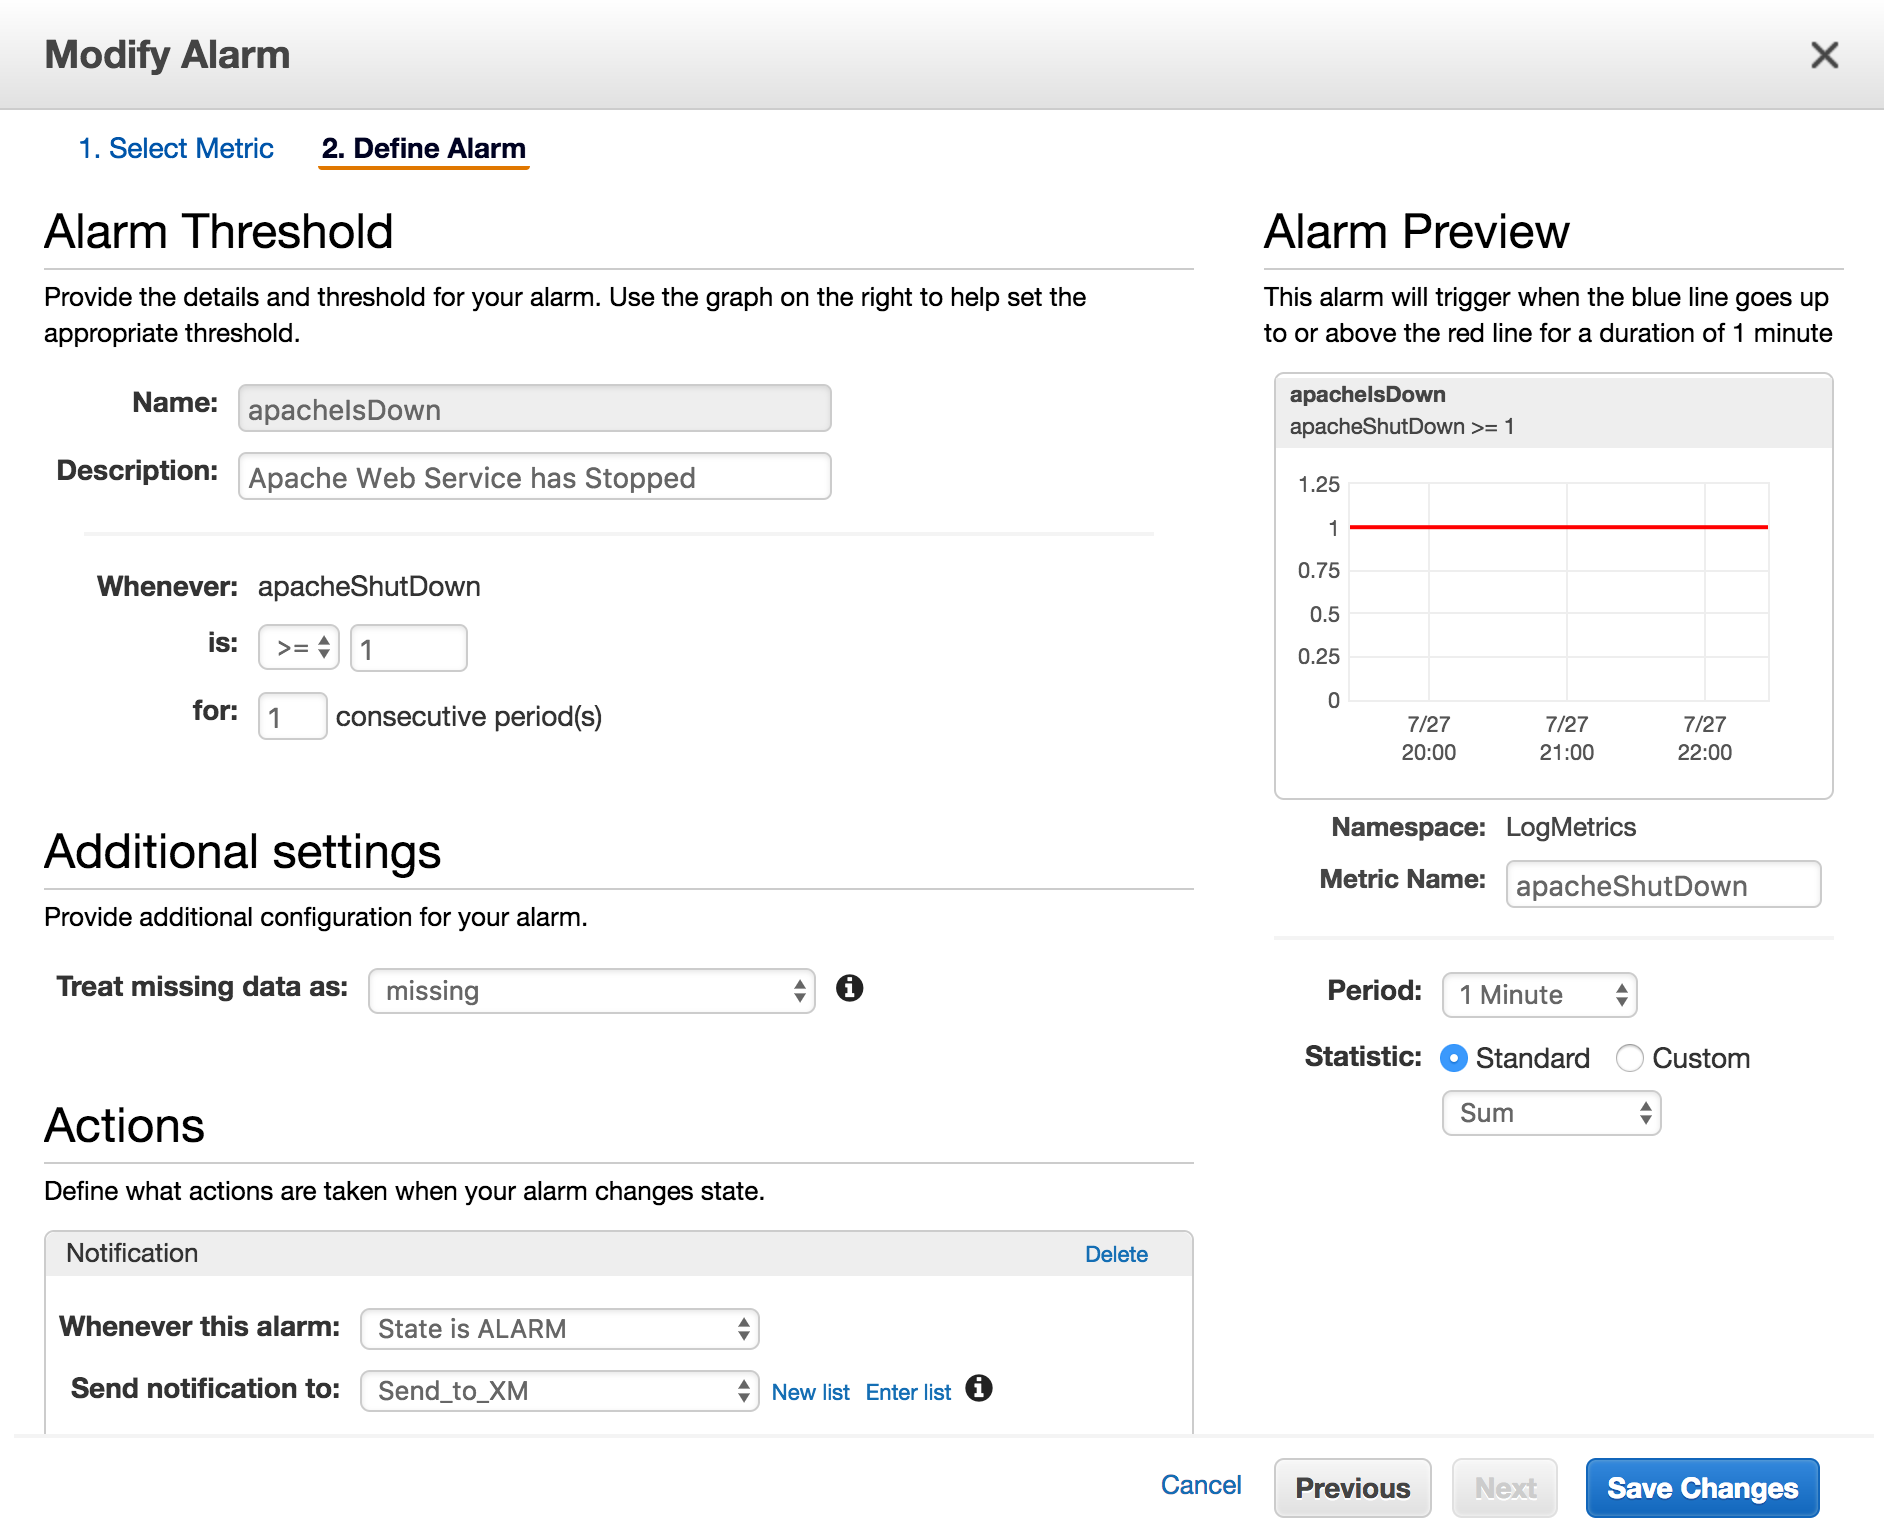
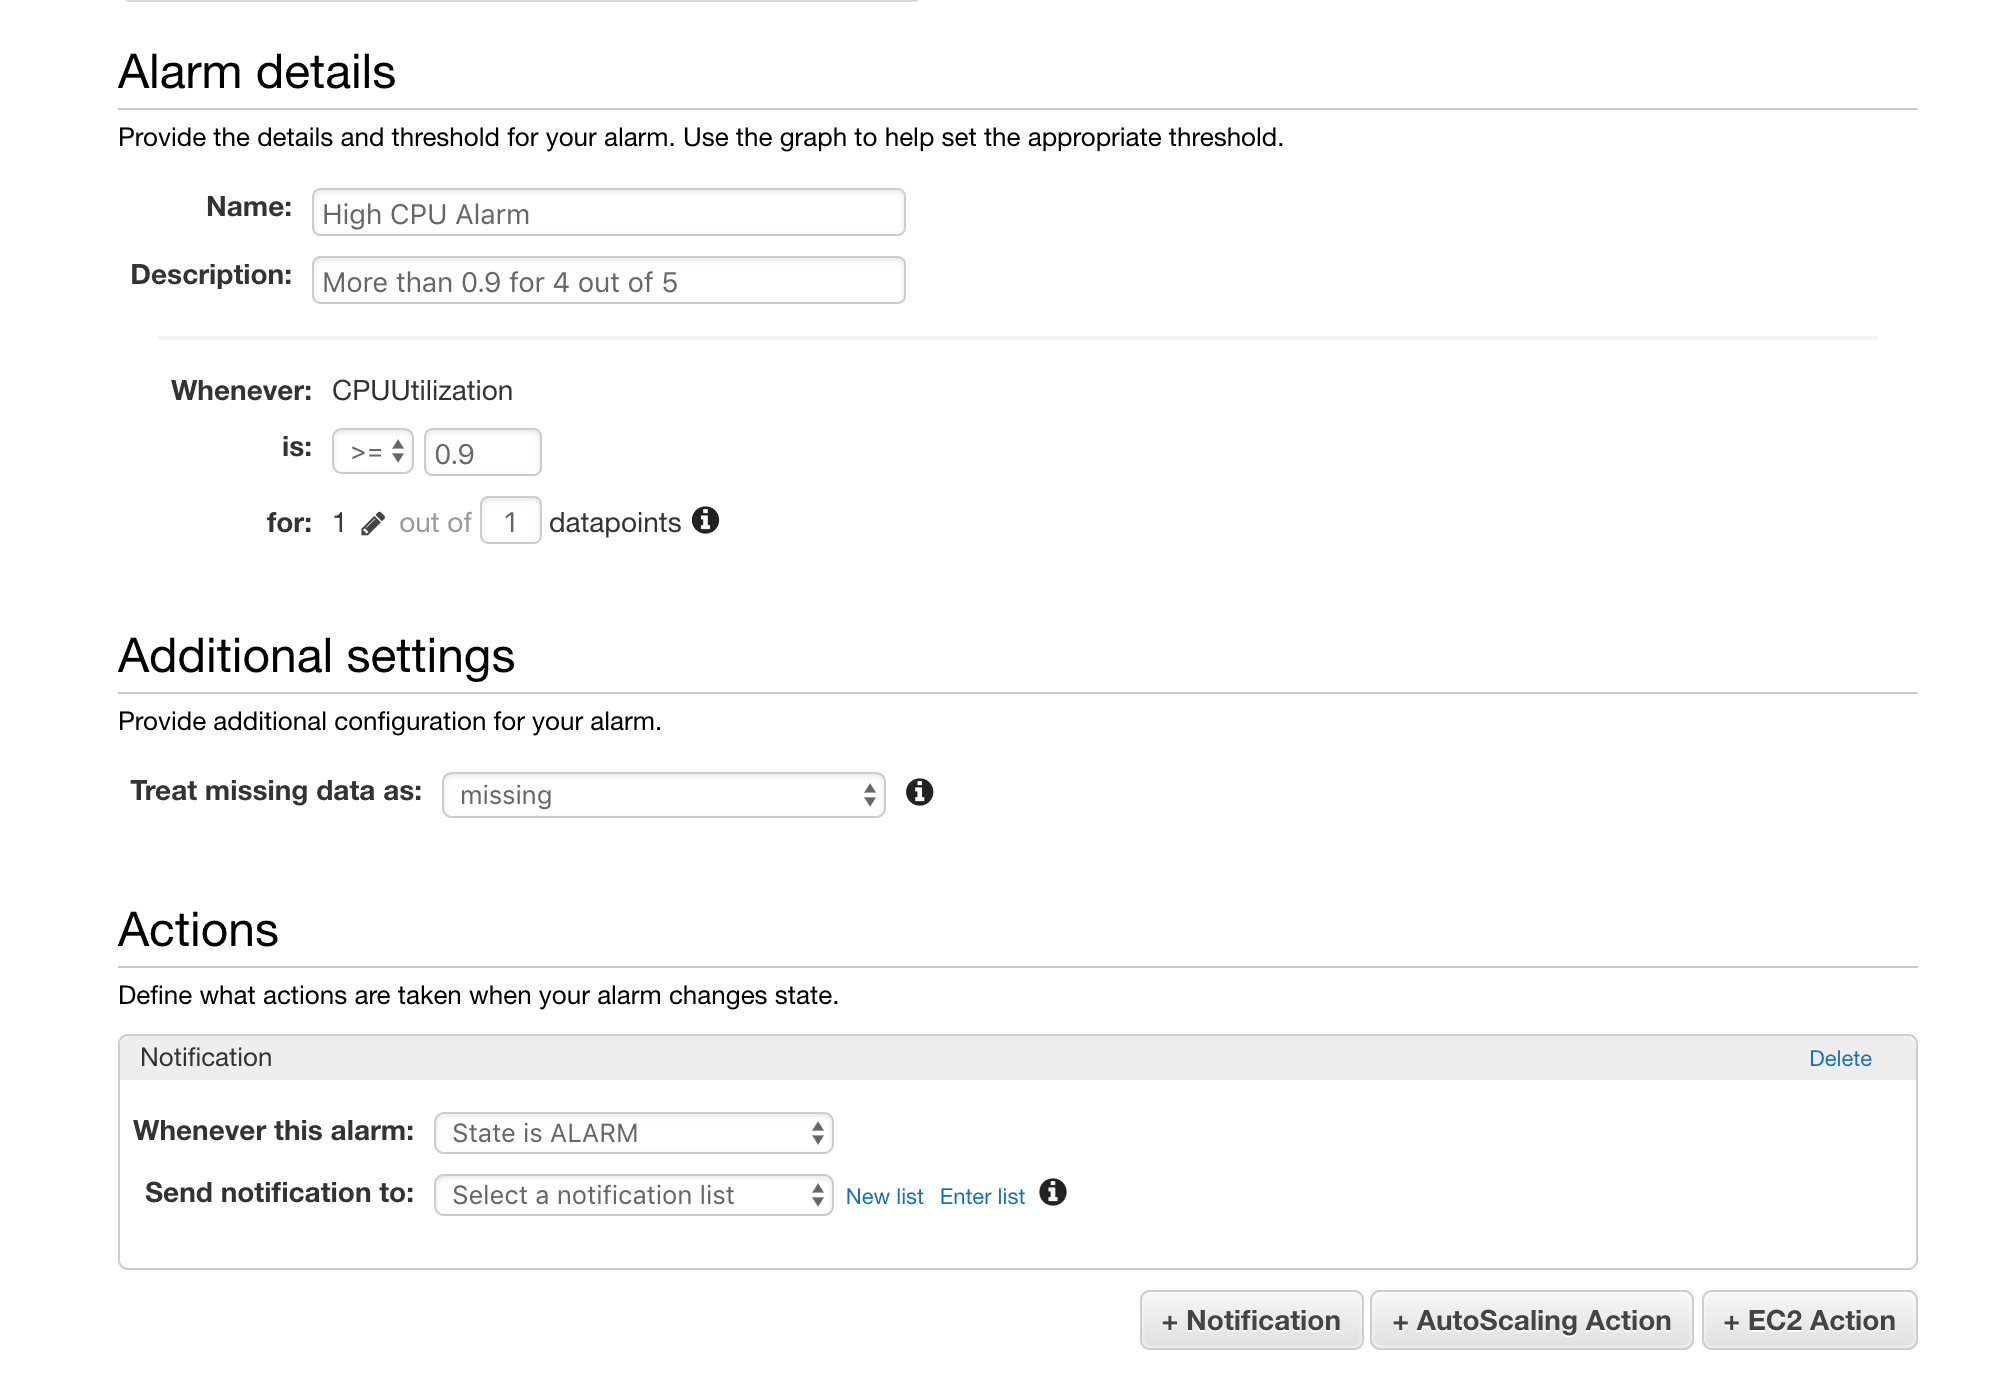
Overhaul

diff --git a/README.md b/README.md
@@ -1,7 +1,6 @@
-# AWS Cloudwatch
-  Cloudwatch is an Amazon Web Service that is available when you spin up an EC2 instance. In order to configure this integration, you must sign up for an EC2 instance by going [Here](https://www.amazon.com/ap/signin?openid.assoc_handle=aws&openid.return_to=https%3A%2F%2Fsignin.aws.amazon.com%2Foauth%3Fresponse_type%3Dcode%26client_id%3Darn%253Aaws%253Aiam%253A%253A015428540659%253Auser%252Fiam%26redirect_uri%3Dhttps%253A%252F%252Fconsole.aws.amazon.com%252Fiam%252Fhome%253Fstate%253DhashArgs%252523%25252Fhome%2526isauthcode%253Dtrue%26noAuthCookie%3Dtrue&openid.mode=checkid_setup&openid.ns=http%3A%2F%2Fspecs.openid.net%2Fauth%2F2.0&openid.identity=http%3A%2F%2Fspecs.openid.net%2Fauth%2F2.0%2Fidentifier_select&openid.claimed_id=http%3A%2F%2Fspecs.openid.net%2Fauth%2F2.0%2Fidentifier_select&action=&disableCorpSignUp=&clientContext=&marketPlaceId=&poolName=&authCookies=&pageId=aws.ssop&siteState=registered%2Cen_US&accountStatusPolicy=P1&sso=&openid.pape.preferred_auth_policies=MultifactorPhysical&openid.pape.max_auth_age=120&openid.ns.pape=http%3A%2F%2Fspecs.openid.net%2Fextensions%2Fpape%2F1.0&server=%2Fap%2Fsignin%3Fie%3DUTF8&accountPoolAlias=&forceMobileApp=0&language=en_US&forceMobileLayout=0).
+# AWS CloudWatch
+  CloudWatch is an Amazon Web Service for monitoring the AWS resources and the customer applications running on the Amazon infrastructure.
   
-In this lab, I am using a **Amazon Linux AMI**
 
 ---------
 
@@ -13,178 +12,86 @@ In this lab, I am using a **Amazon Linux AMI**
 
 
 # Prerequisites 
+* xMatters account - If you don't have one, [get one!](https://www.xmatters.com/)
+* An AWS Account - If you don't have one, [get one!](https://portal.aws.amazon.com/billing/signup#/start)
 
-* You must download and import the AWS Communication Plan titled **AWSCloudWatch.zip** into your xMatters instance. You can find the file in this repo
-* Slight familiarity with AWS
-
-
-# Step 1: Configure Your IAM Role or User for CloudWatch Logs
-
-The CloudWatch Logs agent supports IAM roles and users. If your instance already has an IAM role associated with it, make sure that you include the IAM policy below. If you don't already have an IAM role assigned to your instance, you can use your IAM credentials for the next steps or you can assign an IAM role to that instance. For more information, [see Attaching an IAM Role to an Instance](http://docs.aws.amazon.com/AWSEC2/latest/UserGuide/iam-roles-for-amazon-ec2.html#attach-iam-role).
-
-* To configure your IAM role or user for CloudWatch Logs
-
-1. Open the IAM console at https://console.aws.amazon.com/iam/.
-
-1. In the navigation pane, choose Roles.
-
-1. Choose the role by selecting the role name (do not select the check box next to the name).
-
-1. On the Permissions tab, expand Inline Policies and choose the link to create an inline policy.
-
-1. On the Set Permissions page, choose Custom Policy, Select.
-
-1. For more information about creating custom policies, see IAM Policies for Amazon EC2 in the Amazon EC2 User Guide for Linux Instances.
-
-1. On the Review Policy page, for Policy Name, type a name for the policy.
-
-1. For Policy Document, paste in the following policy:
-
-``` {
-  "Version": "2012-10-17",
-  "Statement": [
-    {
-      "Effect": "Allow",
-      "Action": [
-        "logs:CreateLogGroup",
-        "logs:CreateLogStream",
-        "logs:PutLogEvents",
-        "logs:DescribeLogStreams"
-    ],
-      "Resource": [
-        "arn:aws:logs:*:*:*"
-    ]
-  }
- ]
-}
-```
+# Files
+* [AWSCloudWatch.zip](AWSCloudWatch.zip) - The Comm Plan containing the forms and integration scripts
 
 
-# Step 2: Configure a SNS Topic and Subscription
+# How it works
+When a CloudWatch Alarm condition is met, an Simple Notification Service (SNS) message is published and picked up by the SNS subscription. The subscription is tied to a Topic, which generates a webhook to the xMatters inbound integration. 
+
+# Installation
+
+## xMatters
+
+
+## Import and Configure the xMatters Communication Plan
+
+The next step is to import the communication plan.
+
+To import the communication plan:
+
+1. Login to xMatters as a Developer and create a new user.
+1. Create a new REST user. See details [here](https://help.xmatters.com/integrations/xmatters/configuringxmatters.htm#Create)
+1. Import the [AWSCloudWatch.zip](AWSCloudWatch.zip) communications plan.
+1. Next to the **AWS - CloudWatch** comm plan, click Edit > Access Permissions and give access to the user created in step 2.
+1. Click Edit > Forms and next to the **CloudWatch Alarm** form, click Edit > Sender Permissions and give access to the user created in step 2.
+1. Navigate to the Integration Builder tab and expand the Inbound Integrations section. Click on **Inbound from SNS**  and copy the URL at the bottom.
+
+
+## AWS
+
+### Step 1: Configure an SNS Topic and Subscription
 
 1. Click on the Amazon Simple Notification Service
 
-![AWS SNS Logo](media/awsSNS.png?raw=true)
+<kbd>
+   <img src="media/awsSNS.png" width="550">
+</kbd>
 
 2. Create a topic
 
 
-![AWS SNS Topic Logo](media/awsTopic.png?raw=true)
+<kbd>
+   <img src="media/awsTopic.png" width="550">
+</kbd>
 
 3.) Create a Subscription 
 
 
-![AWS Subscription Logo](media/ansSubscription.png?raw=true)
+<kbd>
+   <img src="media/snsSubscription.png" width="550">
+</kbd>
 
-* Make sure the end point is protocol is https
-* Take the ARN from your previous topic and paste it into the ARN field
-* In the endpoint field, grab the endpoint from the integration builder in "Inbound from SNS" in your AWS Cloudwatch Communication Plan.
+* Make sure the endpoint protocol is https
+* Take the ARN from the topic above and paste it into the ARN field
+* In the endpoint field, use the endpoint from the **Inbound from SNS** inbound integration builder integration in your AWS Cloudwatch Communication Plan.
 
-![XM Comm Plan Outbound Logo](media/outboundXM.png?raw=true)
-
-
-
-
-# Step 3: Install and Configure CloudWatch Logs on an Existing Amazon EC2 Instance
-
-The process for installing the CloudWatch Logs agent differs depending on whether your Amazon EC2 instance is running Amazon Linux, Ubuntu, CentOS, or Red Hat. Use the steps appropriate for the version of Linux on your instance. However, remember, in this example we are using a **Amazon Linux instance**
-
-To install and configure CloudWatch Logs on an existing Amazon Linux instance
-
-Starting with Amazon Linux AMI 2014.09, the CloudWatch Logs agent is available as an RPM installation with the awslogs package. Earlier versions of Amazon Linux can access the awslogs package by updating their instance with the ```sudo yum update -y``` command. By installing the awslogs package as an RPM instead of the using the CloudWatch Logs installer, your instance receives regular package updates and patches from AWS without having to manually reinstall the CloudWatch Logs agent.
-
-## Warning
-Do not update the CloudWatch Logs agent using the RPM installation method if you previously used the Python script to install the agent. Doing so may cause configuration issues that prevent the CloudWatch Logs agent from sending your logs to CloudWatch.
-1. Connect to your Amazon Linux instance. For more information, see Connect to Your Instance in the [Amazon EC2 User Guide for Linux Instances](http://docs.aws.amazon.com/AWSEC2/latest/UserGuide/EC2_GetStarted.html#ec2-connect-to-instance-linux).
-
-If you have trouble connecting, see [Troubleshooting Connecting to Your Instance in the Amazon EC2 User Guide for Linux Instances](http://docs.aws.amazon.com/AWSEC2/latest/UserGuide/TroubleshootingInstancesConnecting.html).
-
-2. Update your Amazon Linux instance to pick up the latest changes in the package repositories.
-* `sudo yum update -y`
-* `sudo yum install -y awslogs`
-* Edit the `/etc/awslogs/awscli.conf` file and in the [default] section, specify the region in which to view log data and add your credentials.
-  ```
-     region = us-east-1
-     aws_access_key_id = <YOUR ACCESS KEY>
-     aws_secret_access_key = <YOUR SECRET KEY> 
-     ```
-3. Install apache web service by running ` sudo yum install httpd`. One Apache is installed, start the service by running `service httpd start`
-4. Next, we will need to configure which logs we want to track
-* We will do this by downloading the following script `wget https://s3.amazonaws.com/aws-cloudwatch/downloads/awslogs-agent-setup-v1.0.py`
-* And then running the following `sudo python ./awslogs-agent-setup-v1.0.py --region us-east-1`
-* When prompt, input your AWS Access Key ID
-* When prompt, input your AWS Secret Access Key
-* You can leave the default region name blank
-* You can leave the default output format blank
-* When prompt for the Log stream name, enter option 3 and type "Apache Error Logs"
-* Chose a timestamp for your output
-* One the configuration is complete you should run `sudo service awslogs restart`
-
-![Script logo](media/pythonScript.png?raw=true)
-
-5. Head over to AWS Cloudwatch
-
-![AWS CloudWatch Logo](media/cloudWatchAWS.png?raw=true)
-
-6 *Click on Logs*
-
-![AWS Logs logo](media/awsLogsImage.png?raw=true)
-
-7.) You should see your apache logs 
-
-![AWS Apache Logs Logo](media/logImage.png?raw=true)
-
-# Step 4: Configure a Metric in the Logs
-1. After your logs are being sent to CloudWatch, In the CloudWatch console click on *Logs*
-2. Find your Apache logs
-3. Click on *Create Metric Filter*
-4. In the Filter Pattern type `shutting down`
-5. Define the Metric
-
-![Define Metric](media/defineMetric.png?raw=true)
-
-
-6. Name the filter `shutting-down`
-7. Name the Metric `apacheShutDown`
-
-![Assign Metric](media/assignMetric.png?raw=true)
-
-
-
-# Step 5: Configure a Alarm in CloudWatch
+### Step 2: Configure an Alarm in CloudWatch
 
 1. Go back to the CloudWatch Console
 2. Click on *Alarm*
 3. Click on *Create Alarm*
-4. Name the alarm `apache is down`
-5. Description `Apache Web Service has stopped`
-6. Whenever: apacheShutDown is ` >=1 ` for ` 1 ` consecutive period
+4. Give the alarm a good name and descriptive description
+5. Set the "Whenever" information to the criteria you need to monitor. For example, `CPUUtilization > 0.9 for 4 out of 5 datapoints`. 
 7. Whenever this alarm: `State is ALARM`
 8. Send notification to `Send_to_XM`
 
-![AWS Alarm](media/alarm.png?raw=true)
+<kbd>
+   <img src="media/alarm.png" width="550">
+</kbd>
 
 
-# Step 6: Stop Apache
+# Testing
 
-1. Log into your EC2 instance
-2. Type the following command ` sudo service httpd stop`
-3. Your Alarm should be triggered in Cloudwatch
+Spike the CPU on an ec2 instance, or otherwise trigger the criteria in the `Whenever` section of the alarm. Then, check the Activity Stream in the **Inbound from SNS** inbound integration. There should be a new entry and a resulting event generated, targeting the recipients set in the form. 
 
-![Alarm State](media/alarmState.png?raw=true)
+# Troubleshooting
 
-4. You should also get an alert from xMatters telling you Apache has stopped
+The first place to check is the inbound activity stream. If there is no entry here, the SNS topic failed to fire so investigate the `Whenever` condition and verify the condition was triggered and verify the SNS topic is correctly set up. If there is an entry in the activity stream, but no event, the investigate the activity stream for more details. There will be an error message on why the event wasn't generated. 
 
-![xM Email](media/e-mail%20alert.png?raw=true)
-
-# Step 7: Monitoring the Docker Deamon in CloudWatch (optional)
-
-1. Run `sudo yum update -y`
-2. Install Docker by running `sudo yum install -y docker`
-3. The docker Deamon is located at `/var/log/docker`
-4. Repeat **Step 3** part **4** to log the docker deamon logs
-5. Repeat **Step 5** to configure your alarm in CloudWatch
-
-
+If the event was generated but no notification was received, check the recent events report for the event generated to see who was notified. Then verify the correct recipients. 
 
 
